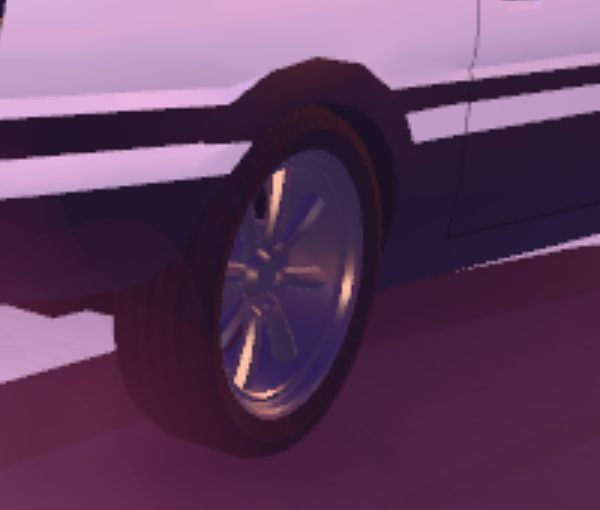
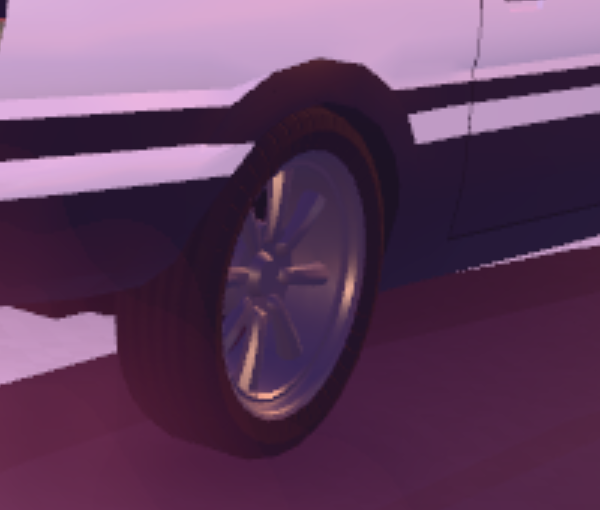
AE86 rims as their own part (cars.json fx.rimUv and fx.rim: a satin metal with a calm reflection, one material for the four rims); showroom front and touge tal pictures with the close-up of the rear wheel

diff --git a/game/view/carfx.js b/game/view/carfx.js
@@ -176,6 +176,14 @@ export function treadTyres(group, uvAt, colour = 0x1b1b1d) {
 export function dressCar(group, spec = {}, { lite = false } = {}) {
   // windows: their own dark tinted glass, a weak reflection of the sky (the palette's glass reflected it fully: a pale plate)
   if (spec.tyreUv) treadTyres(group, spec.tyreUv);
+  // rims: their own part (later: wheel size, rim colour and finish); a satin metal with a calm reflection of the sky, not a mirror
+  // that turns orange or blue in the dusk
+  if (spec.rimUv) {
+    let env = null; group.traverse((o) => { if (o.isMesh && !env) env = o.material?.envMap ?? null; });
+    const r = spec.rim ?? {};
+    const rim = new THREE.MeshStandardMaterial({ name: 'fx_rim', color: new THREE.Color().setRGB(...(r.color ?? [0.16, 0.165, 0.175])), metalness: r.metal ?? 0.55, roughness: r.rough ?? 0.35, envMap: env, envMapIntensity: r.env ?? 0.7 });
+    splitPalette(group, spec.rimUv, rim, 0.06, { all: true, only: /^wheel_.._own$/ });
+  }
   // parts of the model's own dark trim that are body panels (the AE86's bonnet): they take the garage paint like the rest of the body
   const paintMesh = group.getObjectByName('body_paint');
   for (const part of spec.paintParts ?? []) {
